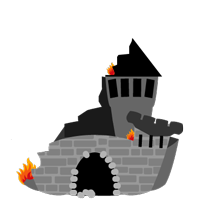
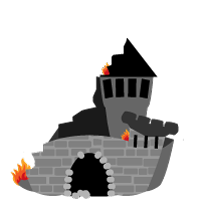
quelques changement

Changed region(s): [[0.06, 0.18, 0.93, 1.0], [0.24, 0.84, 0.27, 0.93], [0.66, 0.87, 0.69, 0.93]]

diff --git a/js/script.js b/js/script.js
@@ -37,8 +37,18 @@
         }
     });
     
-    $("#game-content").animate({"backgroundPosition":'-1800px 0px'},3800,'linear');
-
+	$("#level-start").click(function(){
+	
+	    var $this = $(this);
+	    
+	    if($this.data('clicked')) {
+	        $("#game-content").animate({"backgroundPosition":'-800px 0px'},3800);
+	    }
+	    else {
+	        $("#game-content").animate({"backgroundPosition":'-800px 0px'},3800);
+	    }
+	});
+	
 	function start() {
 		$("#start").fadeOut(600);
         $("#logo").fadeIn(600).css("top","20px");
@@ -53,8 +63,8 @@
         $("#ennemy").fadeIn(600).css("display","block");
         $("#word").fadeIn(600).css("display","block");
         $("#wordField").fadeIn(600).css("display","block");
-        $('#CastleP').transition({ x: '-800px' }, 1800);
-        $('#CastleE').transition({ x: '-1000px' }, 1800);
+        $('#CastleP').transition({ x: '-800px' }, 3800,'ease');
+        $('#CastleE').transition({ x: '-400px' }, 3800,'ease');
 
         //On focus sur le champ input
         $("#wordField").focus().val("");
@@ -184,7 +194,7 @@
         }
         else{
             enemyTimeRemain -= time;
-            $('#enemyTime').html(enemyTimeRemain);
+            $('#timeBack').css("height",enemyTimeRemain+"%");
             if (enemyTimeRemain <= 0){
                 clearInterval(enemyTimer);
                 getDamages(healthPoints,enemyRocketDamages);
@@ -210,9 +220,6 @@
             $('#playerHP').html(0);
             endGame();
         }
-        else if (healthPoints <= 50){
-                $('#CastleP').css("background","url('/WordWar/img/joueur_2.png')");
-        }
         else{
             $('#playerHP').html(healthPoints);
         }
@@ -229,9 +236,6 @@
             end=true;
             $('#enemyHP').html(0);
             endGame();
-        }
-        else if (enemyHealthPoints <= 50){
-            $('#CastleE').css("background","url('/WordWar/img/ennemi_2.png')");
         }
         else{
             $('#enemyHP').html(enemyHealthPoints);

diff --git a/index.html b/index.html
@@ -20,6 +20,7 @@
 	
 	<body>
 		<img src="img/logo.png" alt="logo" id="logo">
+		<div id="timeBack"></div>
 		<div id="game-content">
 		
 			<span id="start"></span>
@@ -28,7 +29,7 @@
 				<div id="lifeP">
 					<div id="fillP"></div>
 				</div>
-<!-- 		        Temps missile:<input class="playerTime"><br> -->
+<!-- 		        <input class="playerTime"> -->
 <!-- 		        Dégats missile:<span id="playerDamages"></span> -->
 			</div>
 			
@@ -36,10 +37,8 @@
 				<div id="lifeE">
 					<div id="fillE"></div>
 				</div>
-<!--
 		        Temps missile:<span id="enemyTime" data-min="0" data-max="30"></span><br>
-		        Dégats missile:<span id="enemyDamages"></span>
--->
+<!-- 		        Dégats missile:<span id="enemyDamages"></span> -->
 			</div>
 			
 			<div id="popup">

diff --git a/css/style.css b/css/style.css
@@ -58,6 +58,13 @@ table {
 body {
 	background: url("../img/debut_dark.png");
 }
+#timeBack {
+	height: 0%;
+	width: 100%;
+	background: rgba(255,0,0,0.5);
+	position: absolute;
+	bottom: 0;
+}
 #logo {
 	width: 400px;
 	margin: 0 auto;
@@ -90,13 +97,12 @@ body {
 	z-index: 9;
 	height: 450px;
 	width: 800px;
-	margin: 200px auto;
+	margin: 200px auto 100px auto;
 	border-radius: 5px;
-	background: url("../img/fond.png") repeat-x;
+	background: url("../img/fond2.png") repeat-x;
 	box-shadow: 0px 10px 20px rgba(0,0,0,0.7);
 	overflow: hidden;
 }
-
 #player {
 	background: red;
 	position: absolute;
@@ -245,5 +251,5 @@ body {
 	height: 200px;
 	position: absolute;
 	bottom: 20px;
-	left: 1600px;
+	left: 1000px;
 }
